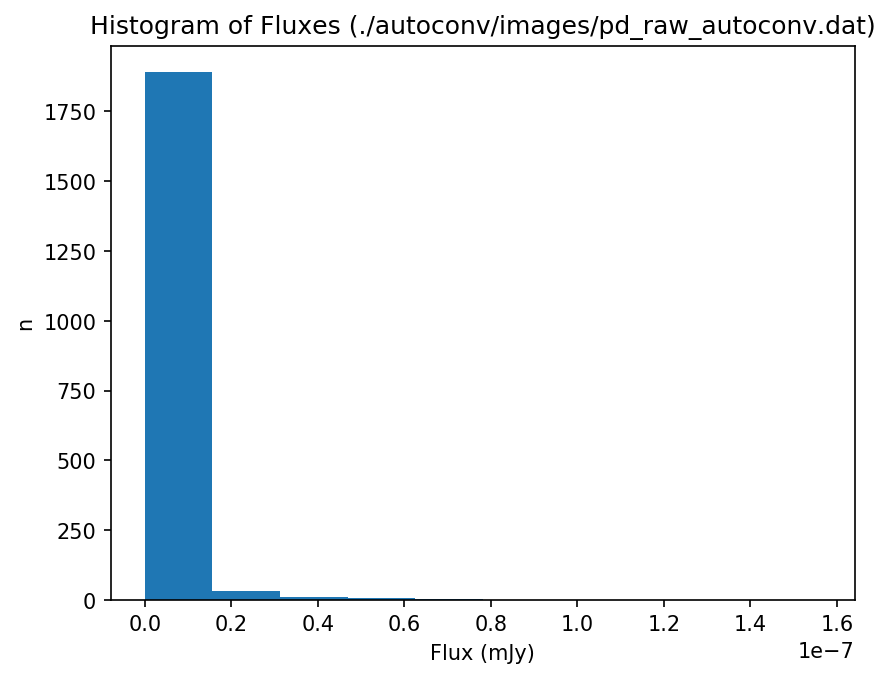
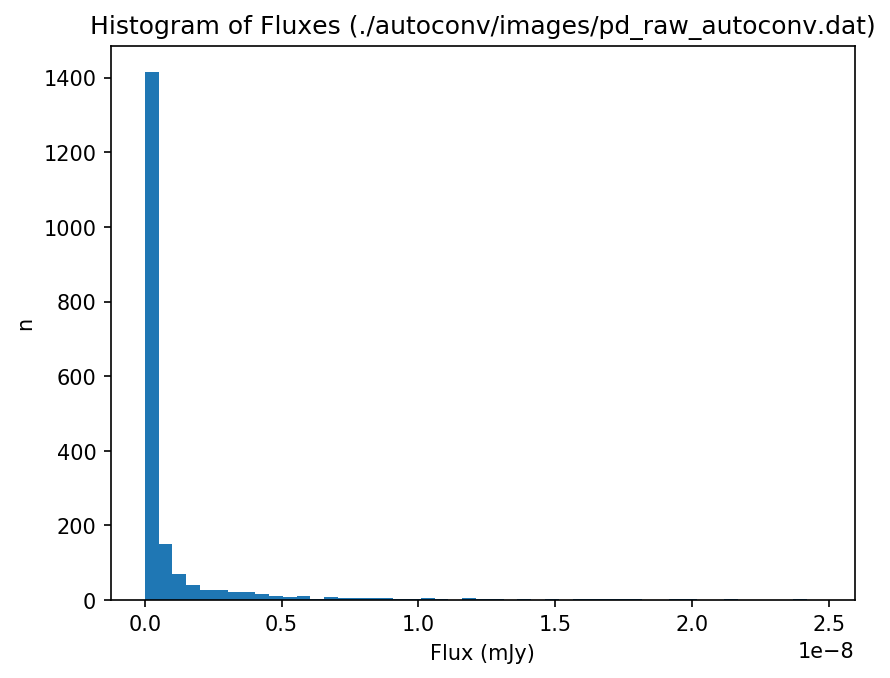
"updated flux histograms"

diff --git a/output/shell_hists.py b/output/shell_hists.py
@@ -1,0 +1,8 @@
+from subprocess import call
+
+call(['python', 'flux_hist.py', './noconv/images/pd_raw_660nm.dat'])
+call(['python', 'flux_hist.py', './autoconv/images/pd_raw_autoconv.dat'])
+call(['python', 'flux_hist.py', './manualconv/images/pd_raw_manualconv.dat'])
+call(['git', 'add', '.'])
+call(['git', 'commit', '-a', '-m', '"updated flux histograms"'])
+call(['git', 'push', 'origin', 'master'])

diff --git a/output/flux_hist.py b/output/flux_hist.py
@@ -21,7 +21,10 @@ image_data = np.ndarray.flatten(np.loadtxt(args.filename))
 fig = plt.figure()
 ax = fig.add_subplot(111)
 
-ax.hist(image_data[image_data != 0.0])
+
+nonzero = image_data[image_data != 0.0]
+
+ax.hist(nonzero, bins=np.linspace(0, np.mean(nonzero)+3.*np.std(nonzero), 50))
 ax.set_xlabel('Flux (mJy)')
 ax.set_ylabel('n')
 plt.title('Histogram of Fluxes ({})'.format(args.filename))
